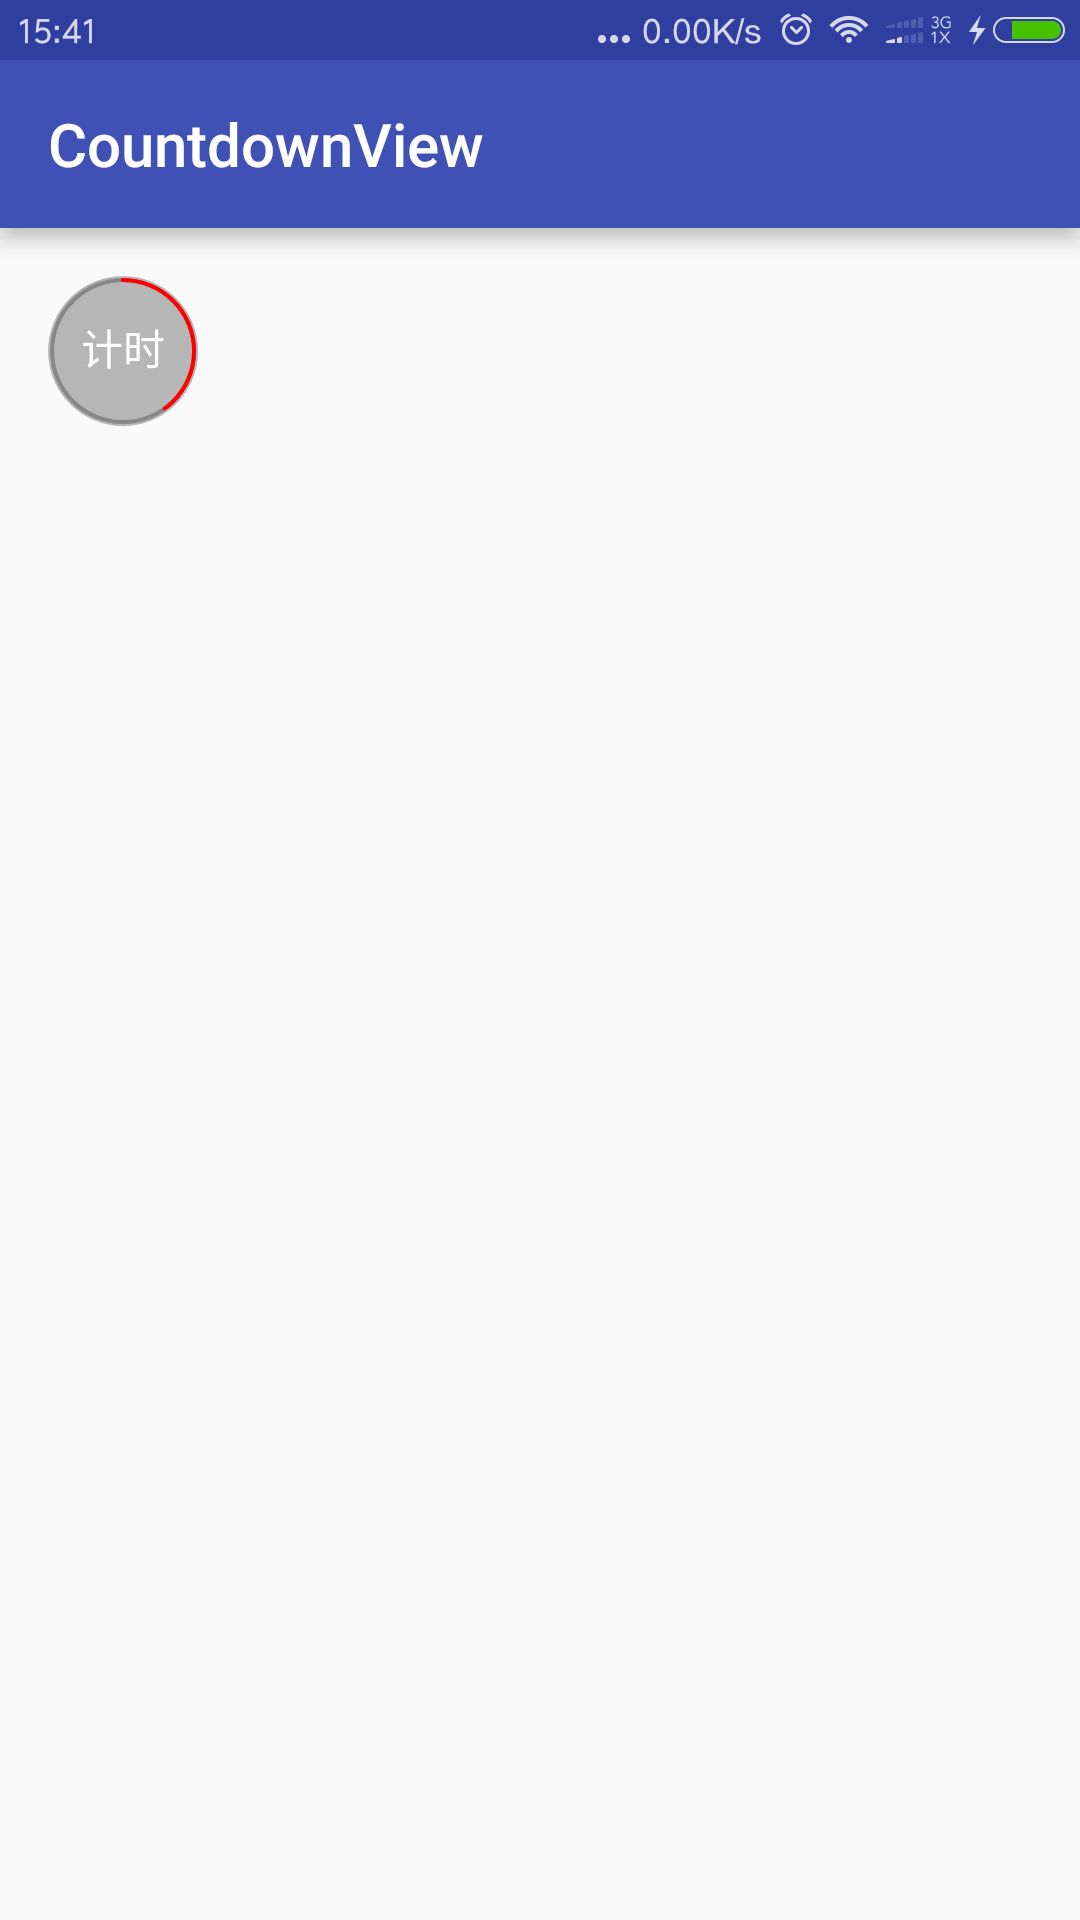
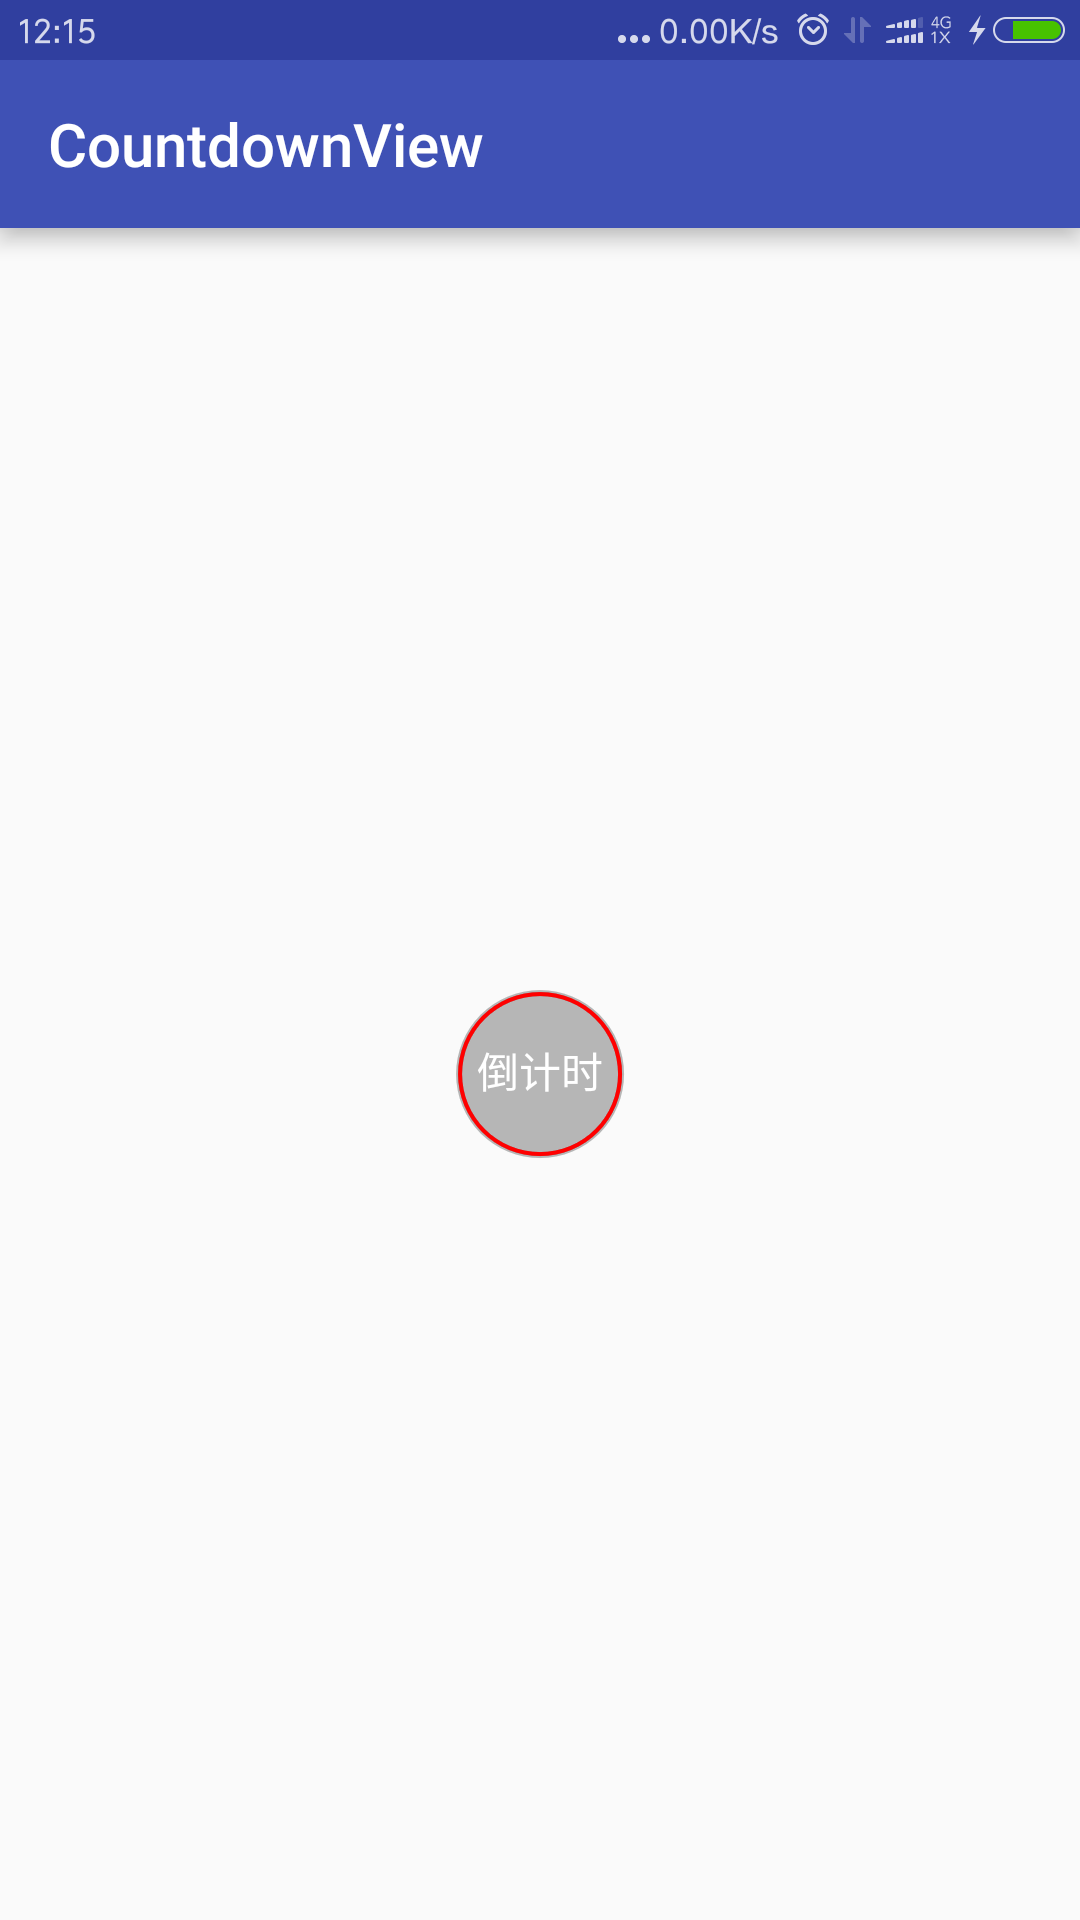
update code

diff --git a/lib/src/main/java/cn/lemon/view/CountdownView.java b/lib/src/main/java/cn/lemon/view/CountdownView.java
@@ -34,9 +34,10 @@ public class CountdownView extends TextView {
     private int mCenterX;
     private int mCenterY;
 
-    private int mTime = 2000;
-    private int mChangTimes;
-    private int mCurrentTime;
+    private int mTime = 2000;   //默认计时
+    private int mDrawTimes = 4;  //总的绘制次数
+    private int mCurrentDrawTimes;  //已经绘制的次数
+    private int mEachDrawAngle = 90; //默认每次绘制90度
 
     private Paint mPaint;
     private Rect mBounds;
@@ -115,37 +116,46 @@ public class CountdownView extends TextView {
         mPaint.setStrokeCap(Paint.Cap.ROUND);
         mArcRectF.set(mBounds.left + mProgressLineWidth, mBounds.top + mProgressLineWidth,
                 mBounds.right - mProgressLineWidth, mBounds.bottom - mProgressLineWidth);
-        canvas.drawArc(mArcRectF, -90, mCurrentTime * (360 / mChangTimes), false, mPaint);
+        canvas.drawArc(mArcRectF, -90,
+                (mCurrentDrawTimes + 1) * mEachDrawAngle, false, mPaint);
     }
 
     public void setText(String text) {
         mText = text;
     }
 
-    //应该被500整除
+    //倒计时时间应该被500整除，每隔500毫秒更新一次UI
     public void setTime(int time) {
         mTime = time;
-        mChangTimes = time / 500;
+        mDrawTimes = time / 500;
+        mEachDrawAngle = 360 / mDrawTimes;
+    }
+
+    public int getTime() {
+        return mTime;
     }
 
     public void setProgressColor(int color) {
         mProgressLineColor = color;
     }
-    public void setCircleBackgroundColor(int color){
+
+    public void setCircleBackgroundColor(int color) {
         mCircleColor = color;
     }
-    public void setTextColor(int color){
+
+    public void setTextColor(int color) {
         mTextColor = color;
     }
 
     public void star() {
-        final int changePer = 100 / mChangTimes;
+        final int changePer = 100 / mDrawTimes;
         mTimer.schedule(new TimerTask() {
             @Override
             public void run() {
-                mCurrentTime++;
-                mProgress += changePer;
                 postInvalidate();
+                mCurrentDrawTimes++;
+                mProgress += changePer;
+                mTime -= 500;
                 if (mProgress == 100) {
                     post(new Runnable() {
                         @Override
@@ -159,7 +169,7 @@ public class CountdownView extends TextView {
         }, 500, 500);
     }
 
-    public void setEndAction(Action action) {
+    public void setOnFinishAction(Action action) {
         mEndAction = action;
     }
 }

diff --git a/demo/src/main/java/cn/lemon/countdownview/MainActivity.java b/demo/src/main/java/cn/lemon/countdownview/MainActivity.java
@@ -18,10 +18,10 @@ public class MainActivity extends AppCompatActivity {
         setContentView(R.layout.activity_main);
 
         mCountdownView = (CountdownView) findViewById(R.id.countdown);
-        mCountdownView.setText("计时");
+        mCountdownView.setText("倒计时");
         mCountdownView.setTime(5000);
         mCountdownView.star();
-        mCountdownView.setEndAction(new Action() {
+        mCountdownView.setOnFinishAction(new Action() {
             @Override
             public void onAction() {
                 Toast.makeText(MainActivity.this,"结束",Toast.LENGTH_SHORT).show();
